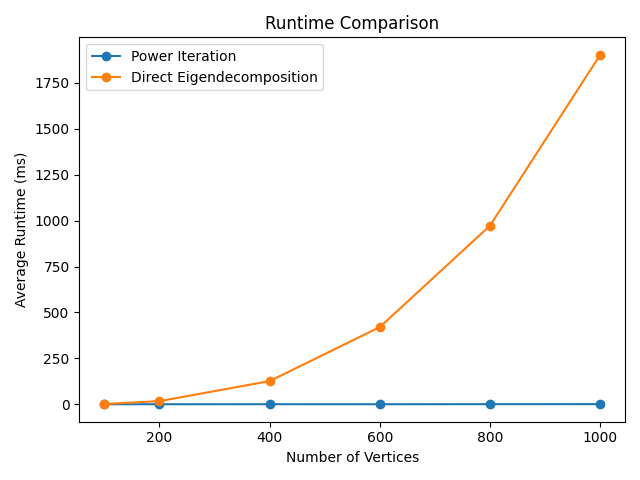
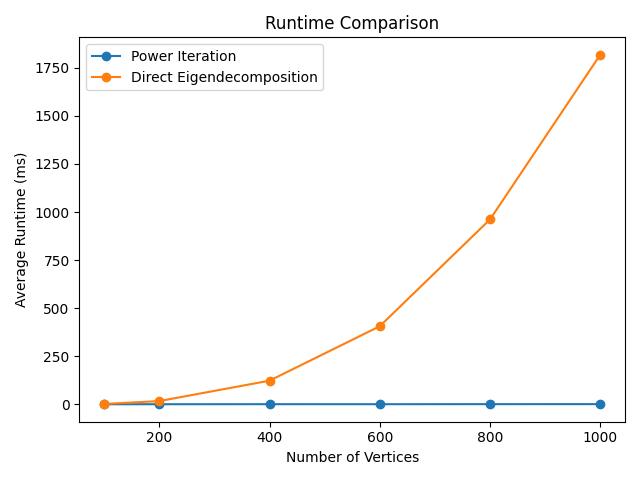
networkx comparison left

diff --git a/scripts/plot.py b/scripts/plot.py
@@ -1,4 +1,5 @@
 import os
+import math
 import matplotlib.pyplot as plt
 
 INPUT_DIR = "data/output"
@@ -59,26 +60,44 @@ def collect_results():
     return results
 
 
-def compute_l1_difference(a, b):
-    if len(a) != len(b):
-        return None
-
-    diff = 0.0
-    for x, y in zip(a, b):
-        diff += abs(x - y)
-
-    return diff
-
-
 def average(values):
     if not values:
         return None
     return sum(values) / len(values)
 
 
+def compute_percentage_relative_error(power, direct):
+    """
+    Percentage Relative Error:
+
+    ||x_power - x_direct||_2
+    ------------------------ × 100
+        ||x_direct||_2
+    """
+
+    if len(power) != len(direct):
+        return None
+
+    numerator = 0.0
+    denominator = 0.0
+
+    for x, y in zip(power, direct):
+        numerator += (x - y) ** 2
+        denominator += y ** 2
+
+    numerator = math.sqrt(numerator)
+    denominator = math.sqrt(denominator)
+
+    if denominator == 0.0:
+        return None
+
+    return (numerator / denominator) * 100.0
+
+
 def plot_runtime_comparison(results):
     """
-    Plot average runtime per graph size
+    Plot 1:
+    Average runtime per graph size
     """
 
     power_grouped = {}
@@ -130,6 +149,8 @@ def plot_runtime_comparison(results):
         label="Direct Eigendecomposition"
     )
 
+    plt.ylim(bottom=0)
+
     plt.xlabel("Number of Vertices")
     plt.ylabel("Average Runtime (ms)")
     plt.title("Runtime Comparison")
@@ -149,7 +170,8 @@ def plot_runtime_comparison(results):
 
 def plot_accuracy_comparison(results):
     """
-    Plot average L1 error per graph size
+    Plot 2:
+    Average Percentage Relative Error
     """
 
     grouped = {}
@@ -174,7 +196,7 @@ def plot_accuracy_comparison(results):
         power_vals = methods["power"]["values"]
         direct_vals = methods["direct"]["values"]
 
-        error = compute_l1_difference(
+        error = compute_percentage_relative_error(
             power_vals,
             direct_vals
         )
@@ -202,8 +224,10 @@ def plot_accuracy_comparison(results):
         marker="o"
     )
 
+    plt.ylim(bottom=0)
+
     plt.xlabel("Number of Vertices")
-    plt.ylabel("Average L1 Difference")
+    plt.ylabel("Average Percentage Error (%)")
     plt.title("Accuracy Comparison (Power vs Direct)")
     plt.tight_layout()
 

diff --git a/src/eigenvector_centrality.cpp b/src/eigenvector_centrality.cpp
@@ -35,37 +35,72 @@ std::vector<double> eigenvector_centrality_power_iteration(
             }
         }
 
-        double norm = 0.0;
+        double l2_norm = 0.0;
+
         for (double val : x_new) {
-            norm += val * val;
+            l2_norm += val * val;
         }
 
-        norm = std::sqrt(norm);
+        l2_norm = std::sqrt(l2_norm);
 
-        if (norm == 0.0) {
+        if (l2_norm == 0.0) {
             throw std::runtime_error(
                 "zero norm encountered in power iteration"
             );
         }
 
         for (double& val : x_new) {
-            val /= norm;
+            val /= l2_norm;
         }
 
         double diff = 0.0;
+
         for (std::size_t i = 0; i < n; ++i) {
             diff += std::abs(x_new[i] - x[i]);
         }
 
         if (diff < tolerance) {
+            double l1_norm = 0.0;
+
+            for (double val : x_new) {
+                l1_norm += std::abs(val);
+            }
+
+            if (l1_norm == 0.0) {
+                throw std::runtime_error(
+                    "zero L1 norm in final normalization"
+                );
+            }
+
+            for (double& val : x_new) {
+                val /= l1_norm;
+            }
+
             return x_new;
         }
 
         x = x_new;
     }
 
+    double l1_norm = 0.0;
+
+    for (double val : x) {
+        l1_norm += std::abs(val);
+    }
+
+    if (l1_norm == 0.0) {
+        throw std::runtime_error(
+            "zero L1 norm after max iterations"
+        );
+    }
+
+    for (double& val : x) {
+        val /= l1_norm;
+    }
+
     return x;
 }
+
 
 std::vector<double> eigenvector_centrality_direct(
     const Graph& g
@@ -92,11 +127,6 @@ std::vector<double> eigenvector_centrality_direct(
         );
     }
 
-    /*
-     * For SelfAdjointEigenSolver:
-     * eigenvalues are returned in increasing order.
-     * Last column = dominant eigenvector.
-     */
     Eigen::VectorXd x =
         solver.eigenvectors().col(n - 1);
 

diff --git a/scripts/generate_graphs.py b/scripts/generate_graphs.py
@@ -4,7 +4,7 @@ import networkx as nx
 
 OUTPUT_DIR = "data/input"
 
-GRAPH_SIZES = [100, 200, 400, 600, 800, 1000]
+GRAPH_SIZES = [100, 200, 300, 400, 500, 600, 700, 800, 900, 1000]
 GRAPHS_PER_SIZE = 5
 
 EDGE_PROBABILITY = 0.01